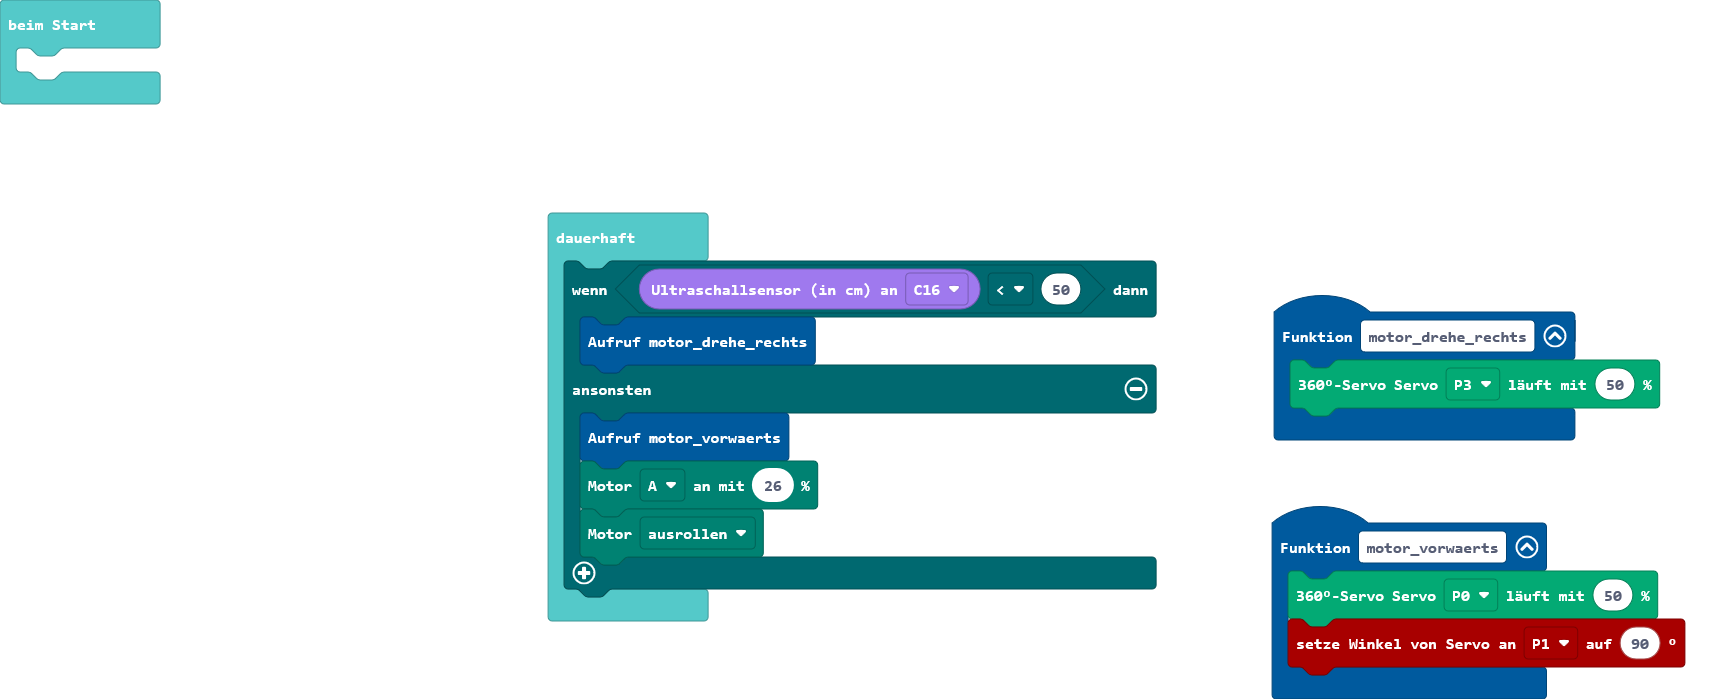
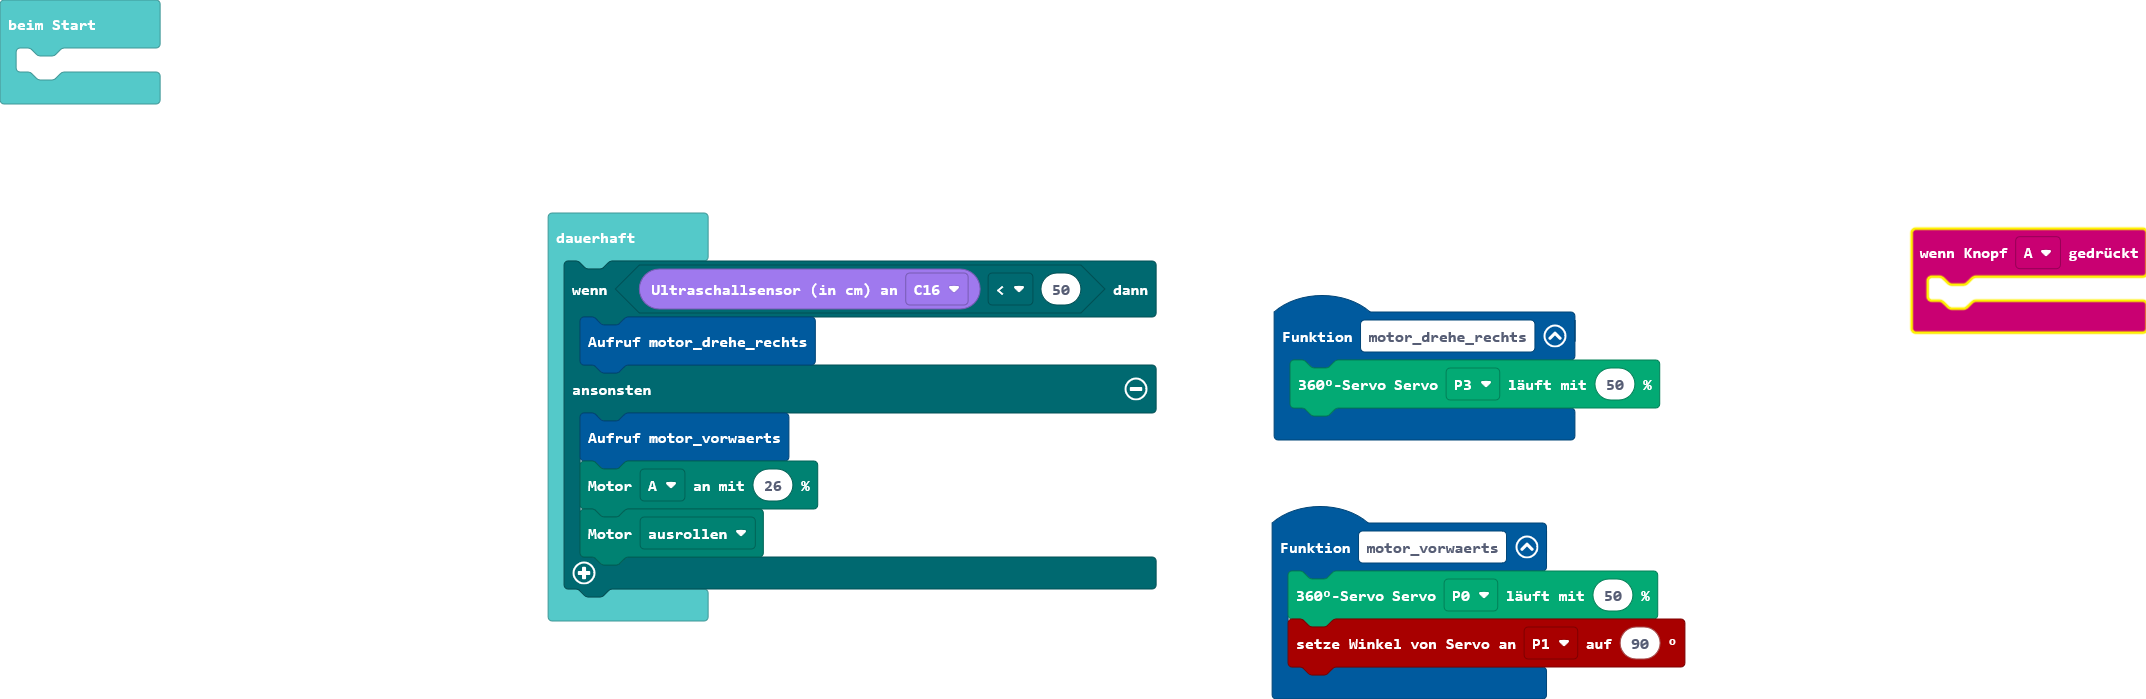
Aktualisiere main.blocks, main.ts

Changed region(s): [[0.2488, 0.3004, 1.0, 0.9013], [0.5288, 0.721, 0.9954, 1.0], [0.0, 0.0, 0.0933, 0.1502]]

diff --git a/main.ts b/main.ts
@@ -2,6 +2,9 @@ function motor_vorwaerts () {
     servos.P0.run(50)
     pins.servoWritePin(AnalogPin.P1, 90)
 }
+input.onButtonPressed(Button.A, function () {
+	
+})
 function motor_drehe_rechts () {
     servos.P3.run(50)
 }
